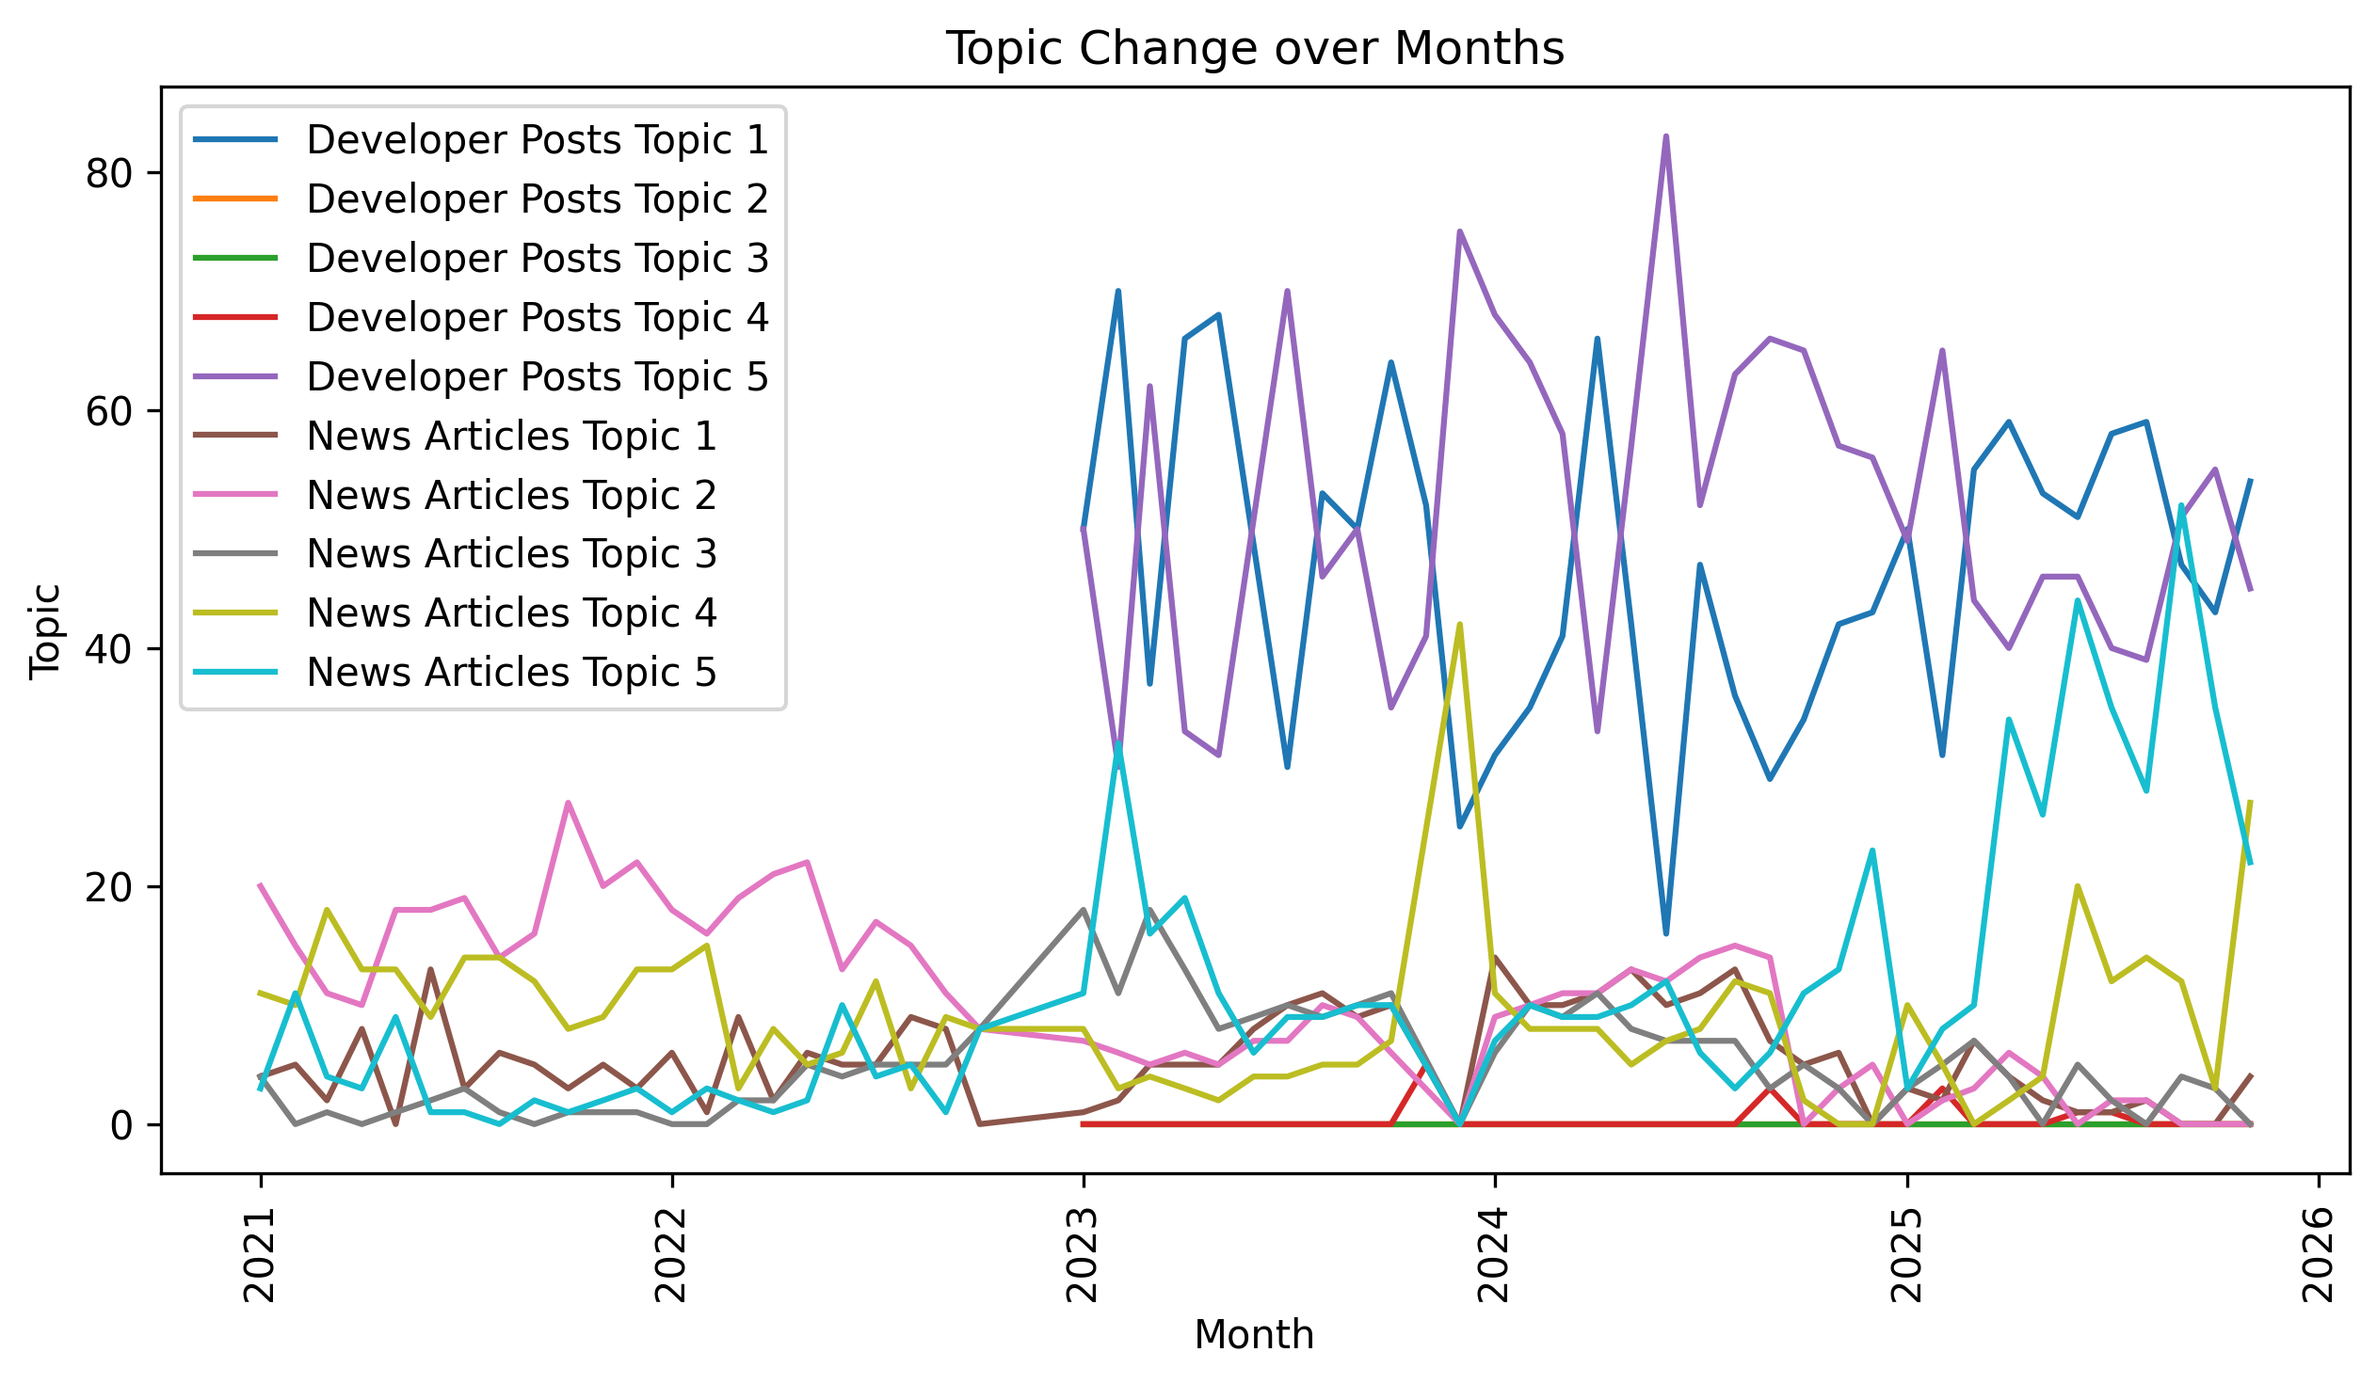
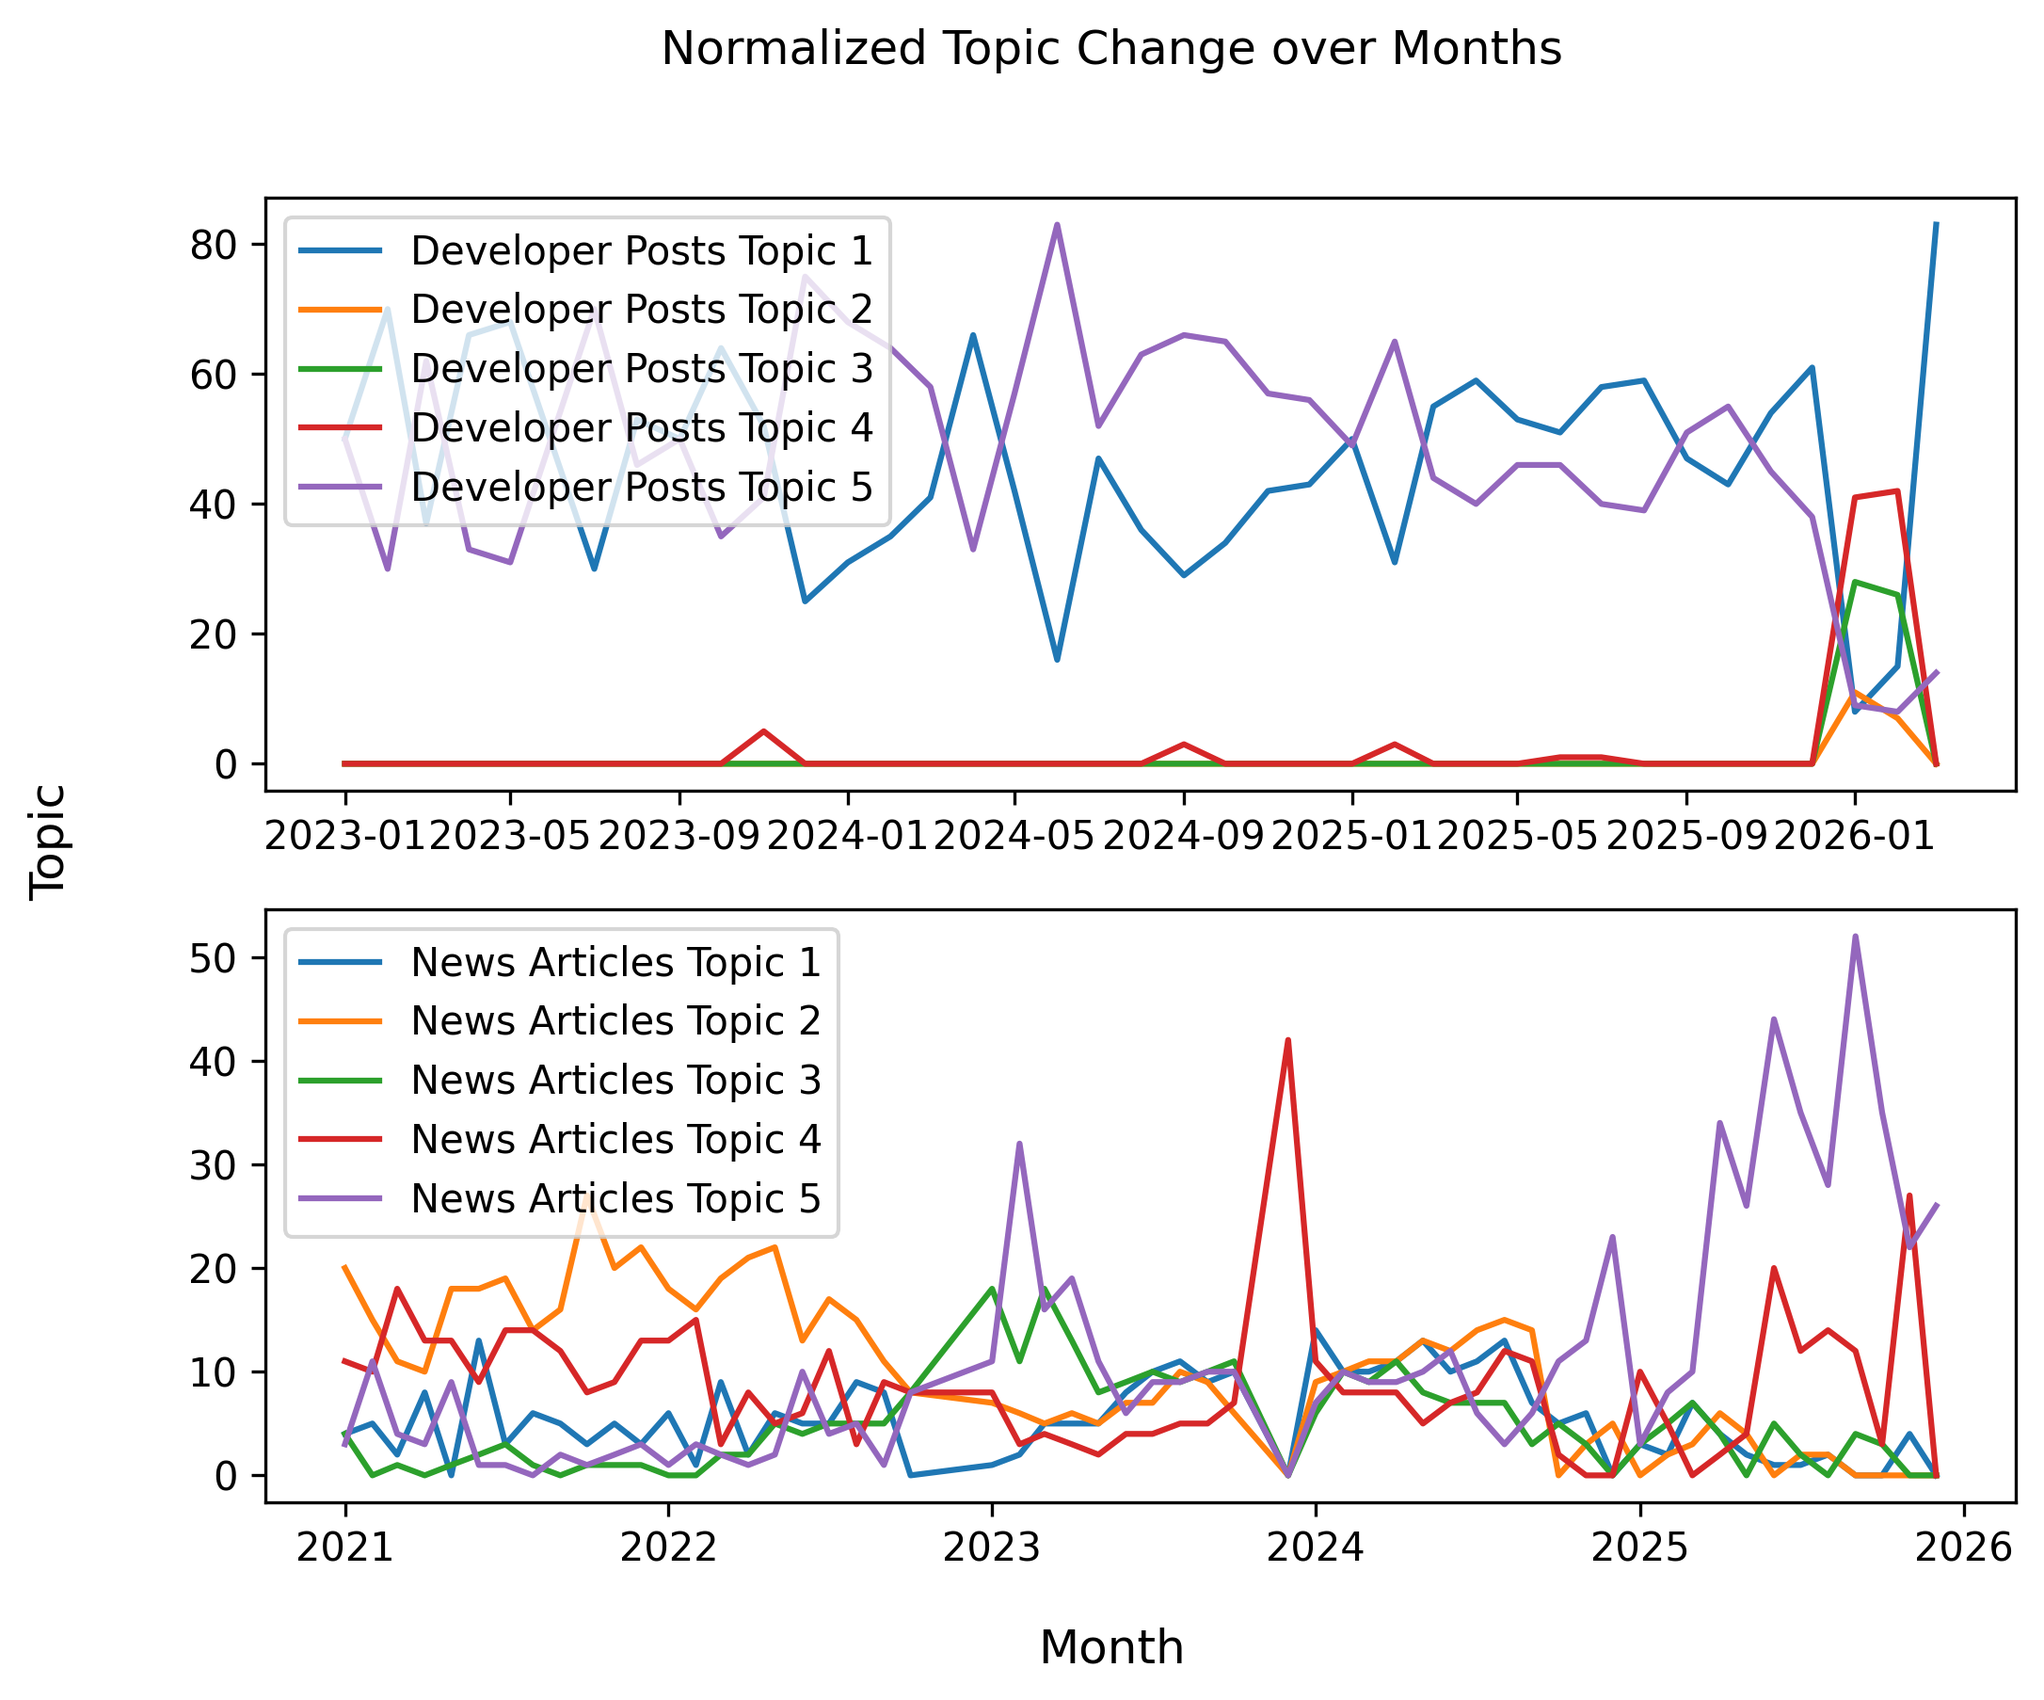
improve frontend

diff --git a/webbapp/frontend/visualizations/visualization_1.html b/webbapp/frontend/visualizations/visualization_1.html
@@ -58,15 +58,13 @@
             <div class="col-lg-4">
                 <div class="form">
                     <label class="form-label" id="output_sentiment_threshold" for="sentiment_threshold">Sentiment Threshold: 0</label>
-                    <input class="form-range" type="range" id="sentiment_threshold" name="sentiment_threshold" min="-1" max="1" step="0.1" oninput="update_slider_output('sentiment_threshold', 'Sentiment Threshold: ')"/>
+                    <input class="form-range" type="range" id="sentiment_threshold" name="sentiment_threshold" min="-1" max="1" step="0.1" oninput="update_slider_output('sentiment_threshold', 'Sentiment Threshold: ')" onchange="generate_sen_by_len_chart()"/>
 
                     <label class="form-label" id="output_news_length_threshold" for="news_length_threshold">News Length Threshold: 55000</label>
-                    <input class="form-range" type="range" id="news_length_threshold" name="news_length_threshold" min="10000" max="100000" step="1000" oninput="update_slider_output('news_length_threshold', 'News Length Threshold: ')"/>
+                    <input class="form-range" type="range" id="news_length_threshold" name="news_length_threshold" min="10000" max="100000" step="1000" oninput="update_slider_output('news_length_threshold', 'News Length Threshold: ')" onchange="generate_sen_by_len_chart()"/>
 
                     <label class="form-label" id="output_devposts_length_threshold" for="devposts_length_threshold">DevPost Length Threshold: 55000</label>
-                    <input class="form-range" type="range" id="devposts_length_threshold" name="devposts_length_threshold" min="10000" max="100000" step="1000" oninput="update_slider_output('devposts_length_threshold', 'DevPost Length Threshold: ')"/>
-
-                    <button class="btn btn-primary" id="run_model" onclick="generate_sen_by_len_chart()">Generate Graph</button>
+                    <input class="form-range" type="range" id="devposts_length_threshold" name="devposts_length_threshold" min="10000" max="100000" step="1000" oninput="update_slider_output('devposts_length_threshold', 'DevPost Length Threshold: ')" onchange="generate_sen_by_len_chart()"/>
                 </div>
                 <div id="param_explainer" class="mt-5">
                     <ul class="list-group bg-dark text-light">

diff --git a/webbapp/frontend/visualizations/visualization_4.html b/webbapp/frontend/visualizations/visualization_4.html
@@ -56,13 +56,18 @@
         <div class="row">
             <div class="col-lg-4">
                 <div class="form">
+                    <label for="table-choice">Choose A Table:</label>
+                    <select id="table-choice" class="form-control" name="table-choice" onchange="generate_sen_over_time_chart()">
+                      <option value="both">News Articles & Developer Posts</option>
+                      <option value="modified_articles">News Articles</option>
+                      <option value="devposts">Developer Posts</option>
+                    </select>
+
                     <label class="form-label" id="output_sentiment_threshold" for="sentiment_threshold">Sentiment Threshold: 0</label>
-                    <input class="form-range" type="range" id="sentiment_threshold" name="sentiment_threshold" min="-1" max="1" step="0.1" oninput="update_slider_output('sentiment_threshold', 'Sentiment Threshold: ')"/>
+                    <input class="form-range" type="range" id="sentiment_threshold" name="sentiment_threshold" min="-1" max="1" step="0.1" oninput="update_slider_output('sentiment_threshold', 'Sentiment Threshold: ')" onchange="generate_sen_over_time_chart()"/>
 
                     <label class="form-label" id="output_post_per_month_threshold" for="post_per_month_threshold">Post Per Month: 5</label>
-                    <input class="form-range" type="range" id="post_per_month_threshold" name="post_per_month_threshold" min="0" max="100" step="5" value="5" oninput="update_slider_output('post_per_month_threshold', 'Post Per Month Threshold: ')"/>
-
-                    <button class="btn btn-primary" id="run_model" onclick="generate_sen_over_time_chart()">Generate Graph</button>
+                    <input class="form-range" type="range" id="post_per_month_threshold" name="post_per_month_threshold" min="0" max="100" step="5" value="5" oninput="update_slider_output('post_per_month_threshold', 'Post Per Month Threshold: ')" onchange="generate_sen_over_time_chart()"/>
                 </div>
                 <div id="param_explainer" class="mt-5">
                     <ul class="list-group bg-dark text-light">

diff --git a/webbapp/frontend/visualizations/visualization_2.html b/webbapp/frontend/visualizations/visualization_2.html
@@ -58,22 +58,21 @@
             <div class="col-lg-6">
                     <div class="form">
                     <label for="table-name">Choose A Table:</label>
-                    <select id="table-name" class="form-control" name="table-name">
+                    <select id="table-name" class="form-control" name="table-name" onchange="generate_sen_by_topic_chart()">
                       <option value="modified_articles">News Articles</option>
                       <option value="devposts">Developer Posts</option>
                     </select>
 
                     <label class="mt-2" for="topic-choice">Choose A Topic:</label>
-                    <select id="topic-choice" class="form-control" name="topic-choice">
+                    <select id="topic-choice" class="form-control" name="topic-choice" onchange="generate_sen_by_topic_chart()">
                       <option value="-1">All</option>
-                      <option value="0">code, software, development</option>
-                      <option value="1">models, model, google</option>
-                      <option value="2">just, like, work</option>
-                      <option value="3">learning, machine, artificial</option>
-                      <option value="4">enterprise, 2025, artificial</option>
+                      <option value="0">Topic 1</option>
+                      <option value="1">Topic 2</option>
+                      <option value="2">Topic 3</option>
+                      <option value="3">Topic 4</option>
+                      <option value="4">Topic 5</option>
                     </select>
 
-                    <button class="btn btn-primary mt-3" id="run_model" onclick="generate_sen_by_topic_chart()">Generate Graph</button>
                 </div>
                 <div id="param_explainer" class="mt-5">
                     <ul class="list-group bg-dark text-light">

diff --git a/webbapp/frontend/visualizations/visualization_3.html b/webbapp/frontend/visualizations/visualization_3.html
@@ -57,10 +57,7 @@
             <div class="col-lg-4">
                 <div class="form">
                     <label class="form-label" id="output_post_per_month_threshold" for="post_per_month_threshold">Post Per Month: 5</label>
-                    <input class="form-range" type="range" id="post_per_month_threshold" name="post_per_month_threshold" min="0" max="100" step="5" value="5" oninput="update_slider_output('post_per_month_threshold', 'Post Per Month Threshold: ')"/>
-
-
-                    <button class="btn btn-primary" id="run_model" onclick="generate_topic_disc_over_time_chart()">Generate Graph</button>
+                    <input class="form-range" type="range" id="post_per_month_threshold" name="post_per_month_threshold" min="0" max="100" step="5" value="5" oninput="update_slider_output('post_per_month_threshold', 'Post Per Month Threshold: ')" onchange="generate_topic_disc_over_time_chart()"/>
                 </div>
                 <div id="param_explainer" class="mt-5">
                     <ul class="list-group bg-dark text-light">
@@ -97,7 +94,7 @@
                                 <td>learning, machine, artificial</td>
                             </tr>
                             <tr>
-                                <th scope="row">4</th>
+                                <th scope="row">5</th>
                                 <td>google, openai, company</td>
                                 <td>enterprise, 2025, artificial</td>
                             </tr>

diff --git a/webbapp/frontend/app.js b/webbapp/frontend/app.js
@@ -81,11 +81,13 @@ async function generate_topic_disc_over_time_chart() {
 async function generate_sen_over_time_chart() {
     let post_per_month_threshold = $("#post_per_month_threshold").val()
     let sentiment_threshold = $("#sentiment_threshold").val()
+    let table_choice = $("#table-choice").val()
 
 
     let params = {
         "sentiment_threshold": sentiment_threshold,
-        "post_per_month_threshold": post_per_month_threshold
+        "post_per_month_threshold": post_per_month_threshold,
+        "table_choice": table_choice,
     }
 
     await generate_chart("sen_over_time", params)

diff --git a/webbapp/backend/charting_functions.py b/webbapp/backend/charting_functions.py
@@ -108,7 +108,7 @@ def generate_sen_by_topic(data, filename="sen_by_topic.png"):
 
 
 # Topic Discussion Amount over Time
-def get_topic_disc_over_time(post_per_month_threshold, table_name, date_column):
+def get_topic_disc_over_time(plot, post_per_month_threshold, table_name, date_column):
     query = f"""SELECT strftime('%Y-%m', {date_column}) month_released,
     SUM(IF(dominant_topic = 0, 1, 0)) * 100 / count(*) topic_0,
     SUM(IF(dominant_topic = 1, 1, 0)) * 100 / count(*) topic_1,
@@ -116,7 +116,6 @@ def get_topic_disc_over_time(post_per_month_threshold, table_name, date_column):
     SUM(IF(dominant_topic = 3, 1, 0)) * 100 / count(*) topic_3,
     SUM(IF(dominant_topic = 4, 1, 0)) * 100 / count(*) topic_4
                     FROM {table_name}
-                    where {date_column} < "2025-12-01"
                     GROUP BY month_released
                     HAVING COUNT(*) > {post_per_month_threshold}
                     ORDER BY month_released;"""
@@ -129,28 +128,36 @@ def get_topic_disc_over_time(post_per_month_threshold, table_name, date_column):
 
     formal_table_name = "News Articles" if table_name == "modified_articles" else "Developer Posts"
     for i in range(5):
-        plt.plot(df["month_released"], df[f"topic_{i}"], label=f"{formal_table_name} Topic {i + 1}")
+        plot.plot(df["month_released"], df[f"topic_{i}"], label=f"{formal_table_name} Topic {i + 1}")
+    plot.legend()
 
 
 def generate_topic_disc_over_time(data, filename="topic_disc_over_time.png"):
     plt.figure(figsize=(10, 5))
     post_per_month_threshold = int(data["params"].get("post_per_month_threshold", 5))
-    get_topic_disc_over_time(post_per_month_threshold, "devposts", "published_at")
-    get_topic_disc_over_time(post_per_month_threshold, "modified_articles", "date")
-    plt.xlabel("Month")
-    plt.ylabel("Topic")
-    plt.title("Topic Change over Months")
-    plt.xticks(rotation=90)
-    plt.legend()
 
-    save_plot(filename)
+    fig, axes = plt.subplots(2, 1, figsize=(8, 6))
+    get_topic_disc_over_time(axes[0], post_per_month_threshold, "devposts", "published_at")
+    get_topic_disc_over_time(axes[1], post_per_month_threshold, "modified_articles", "date")
+
+    for ax in axes:
+        ax.set_xlabel("")
+        ax.set_ylabel("")
+    fig.supylabel("Topic")
+    fig.suptitle("Normalized Topic Change over Months")
+    fig.supxlabel("Month")
+
+    # plt.xticks(rotation=90)
+    # plt.legend()
+
+    save_plot(filename, fig)
 
 
 # Get sentiment over month
 def get_sentiment_change_over_months(table_name, column, sentiment_threshold=0, post_per_month_threshold=5):
     query = f"""SELECT strftime('%Y-%m', {column}) month_released,
-    SUM(IF(roberta_pos_score - roberta_neg_score >= {sentiment_threshold}, 1, 0)) * 100 / count(*) positive,
-    SUM(IF(roberta_pos_score - roberta_neg_score <= -{sentiment_threshold}, 1, 0)) * 100 / count(*) negative
+    SUM(IF(roberta_pos_score - roberta_neg_score > {sentiment_threshold}, 1, 0)) * 100 / count(*) positive,
+    SUM(IF(roberta_pos_score - roberta_neg_score < -{sentiment_threshold}, 1, 0)) * 100 / count(*) negative
                 FROM {table_name}
                 WHERE month_released BETWEEN "2021-01" AND "2025-12"
                 GROUP BY month_released
@@ -165,17 +172,22 @@ def get_sentiment_change_over_months(table_name, column, sentiment_threshold=0, 
 def generate_sent_change_over_time(data, filename="sen_over_time.png"):
     sentiment_threshold = data["params"].get("sentiment_threshold", 0)
     post_per_month_threshold = data["params"].get("post_per_month_threshold", 5)
-    articles_df = get_sentiment_change_over_months("modified_articles", "date", sentiment_threshold=sentiment_threshold, post_per_month_threshold=post_per_month_threshold)
-    dp_df = get_sentiment_change_over_months("DevPosts", "published_at", sentiment_threshold=sentiment_threshold, post_per_month_threshold=post_per_month_threshold)
+    table_choice = data["params"].get("table_choice", "both")
 
-    plt.plot(articles_df["month_released"], articles_df["negative"], label="Negative News Articles")
-    plt.plot(articles_df["month_released"], articles_df["positive"], label="Positive News Articles")
+    if table_choice == "both" or table_choice == "modified_articles":
+        articles_df = get_sentiment_change_over_months("modified_articles", "date", sentiment_threshold=sentiment_threshold, post_per_month_threshold=post_per_month_threshold)
+        plt.plot(articles_df["month_released"], articles_df["negative"], label="Negative News Articles")
+        plt.plot(articles_df["month_released"], articles_df["positive"], label="Positive News Articles")
 
-    plt.plot(dp_df["month_released"], dp_df["negative"], label="Negative DevPosts")
-    plt.plot(dp_df["month_released"], dp_df["positive"], label="Positive DevPosts")
+    if table_choice == "both" or table_choice == "devposts":
+        dp_df = get_sentiment_change_over_months("DevPosts", "published_at", sentiment_threshold=sentiment_threshold, post_per_month_threshold=post_per_month_threshold)
+        plt.plot(dp_df["month_released"], dp_df["negative"], label="Negative Dev Posts")
+        plt.plot(dp_df["month_released"], dp_df["positive"], label="Positive Dev Posts")
+
     plt.xlabel("Year")
     plt.ylabel("Sentiment %")
     plt.title("Sentiment Change over Year")
+    plt.xticks(rotation=90)
     plt.legend()
     save_plot(filename)
 
